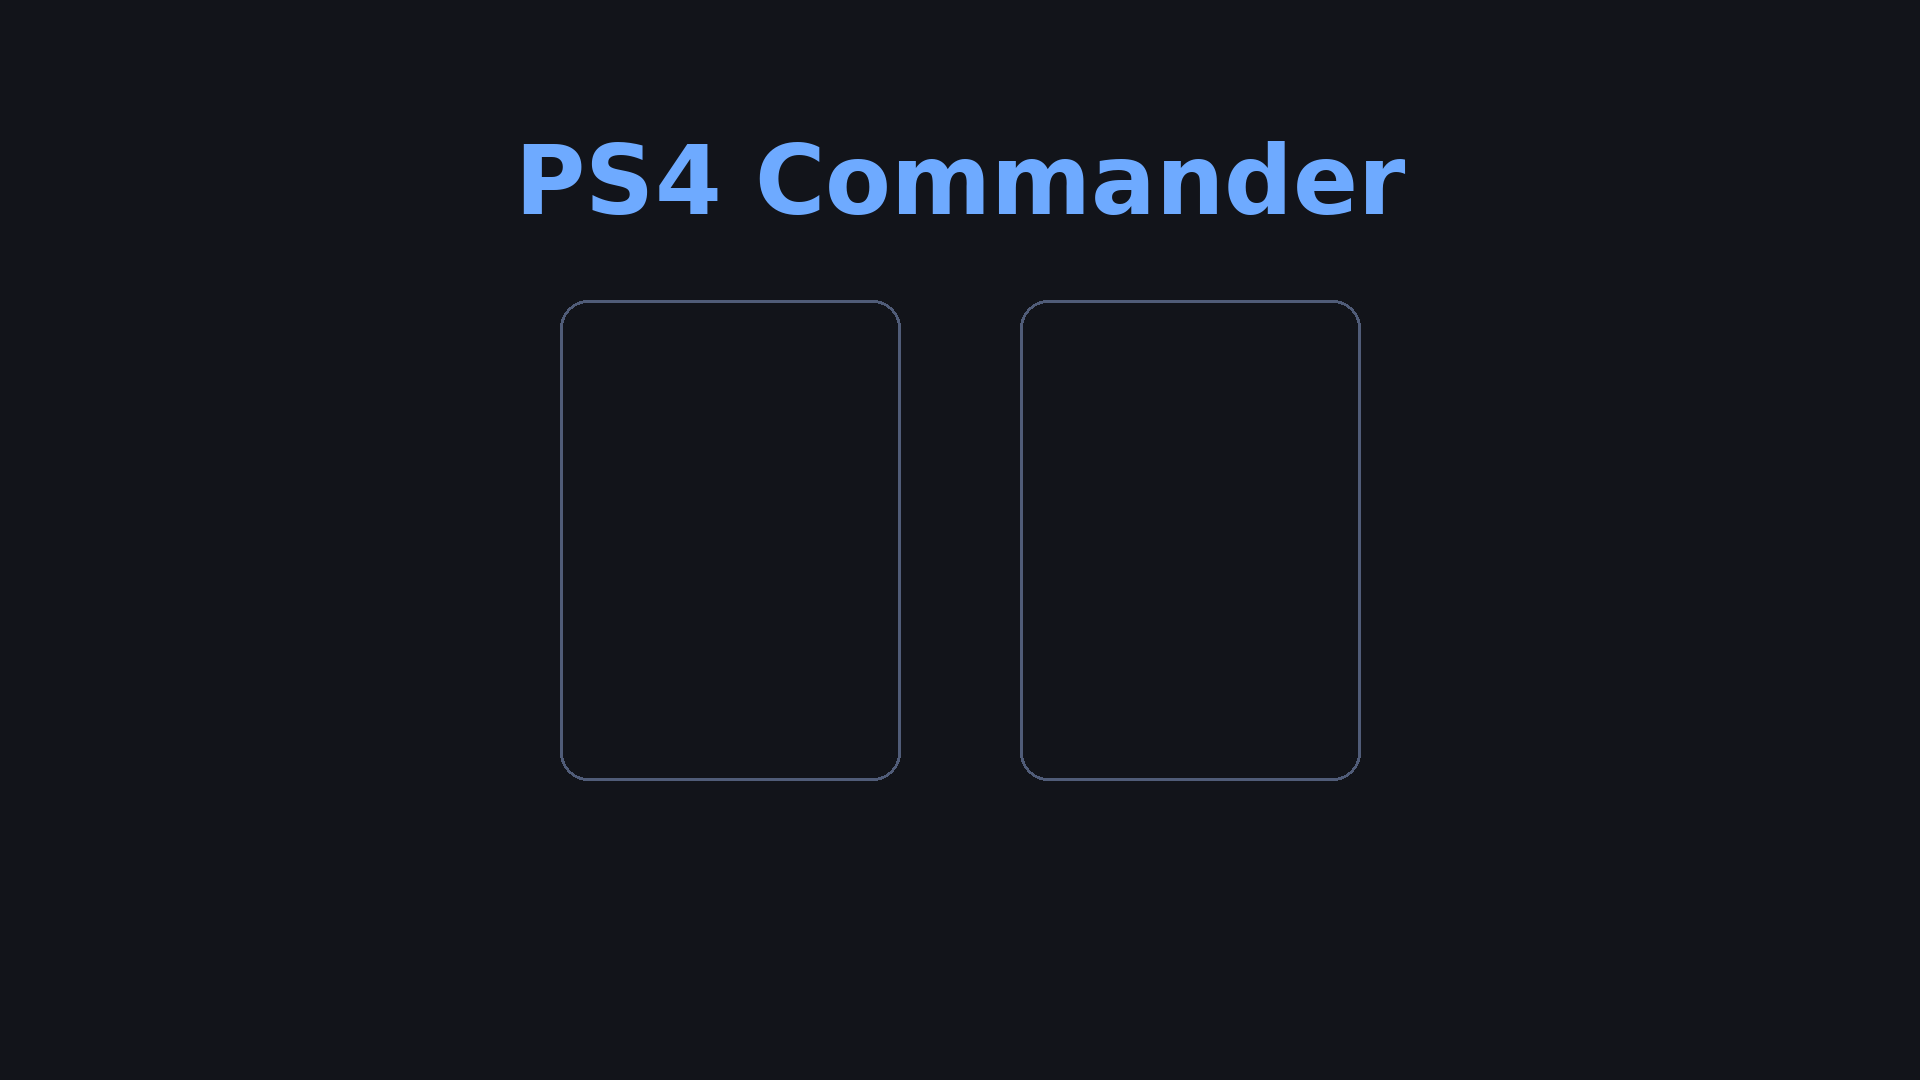
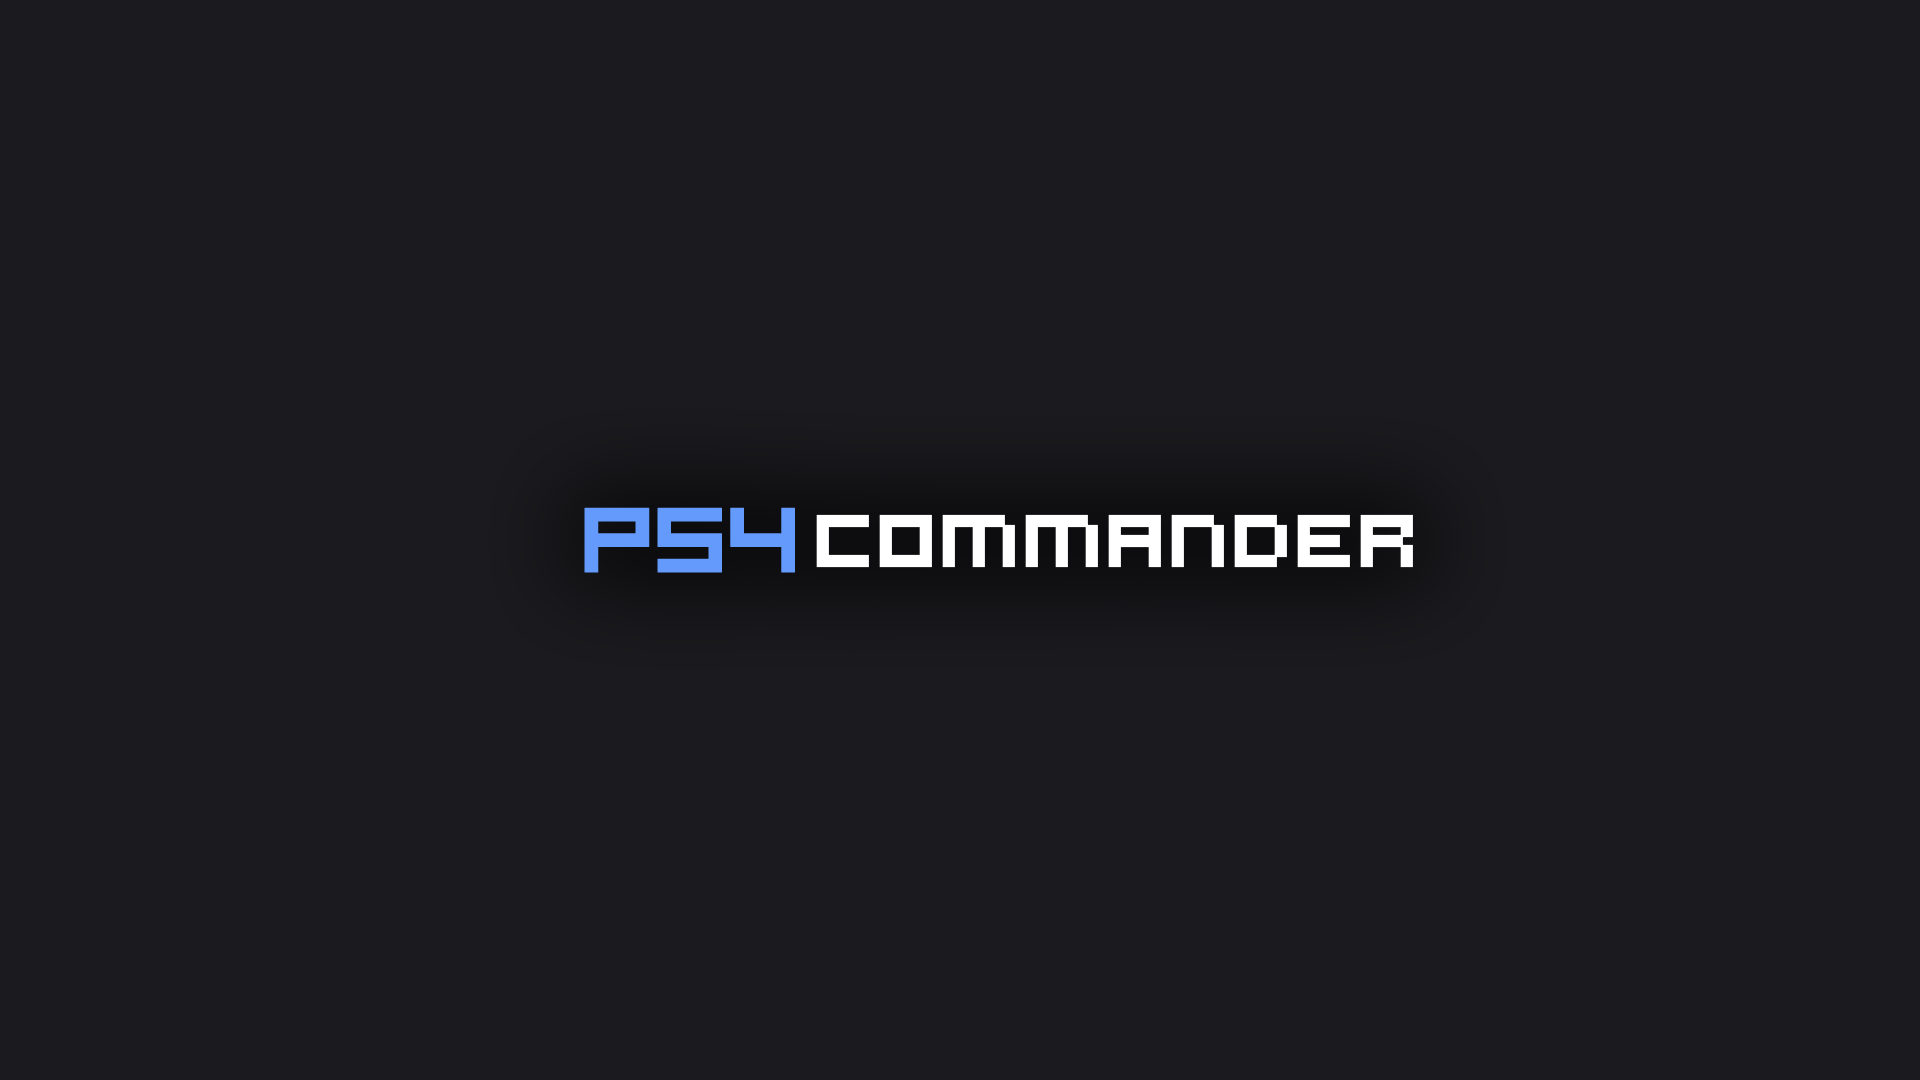
PKG: новая иконка (прозрачный фон) и заставка запуска
Claude-Session: https://claude.ai/code/session_01JsUWJy7jqZaBPR5tpRjoKm

diff --git a/src/version.h b/src/version.h
@@ -1,4 +1,4 @@
 #pragma once
 // Единственный источник версии. На каждую пересборку увеличивается последняя цифра.
-#define APP_VERSION "0.2.0.74"
+#define APP_VERSION "0.2.0.75"
 #define APP_PORT 8484
